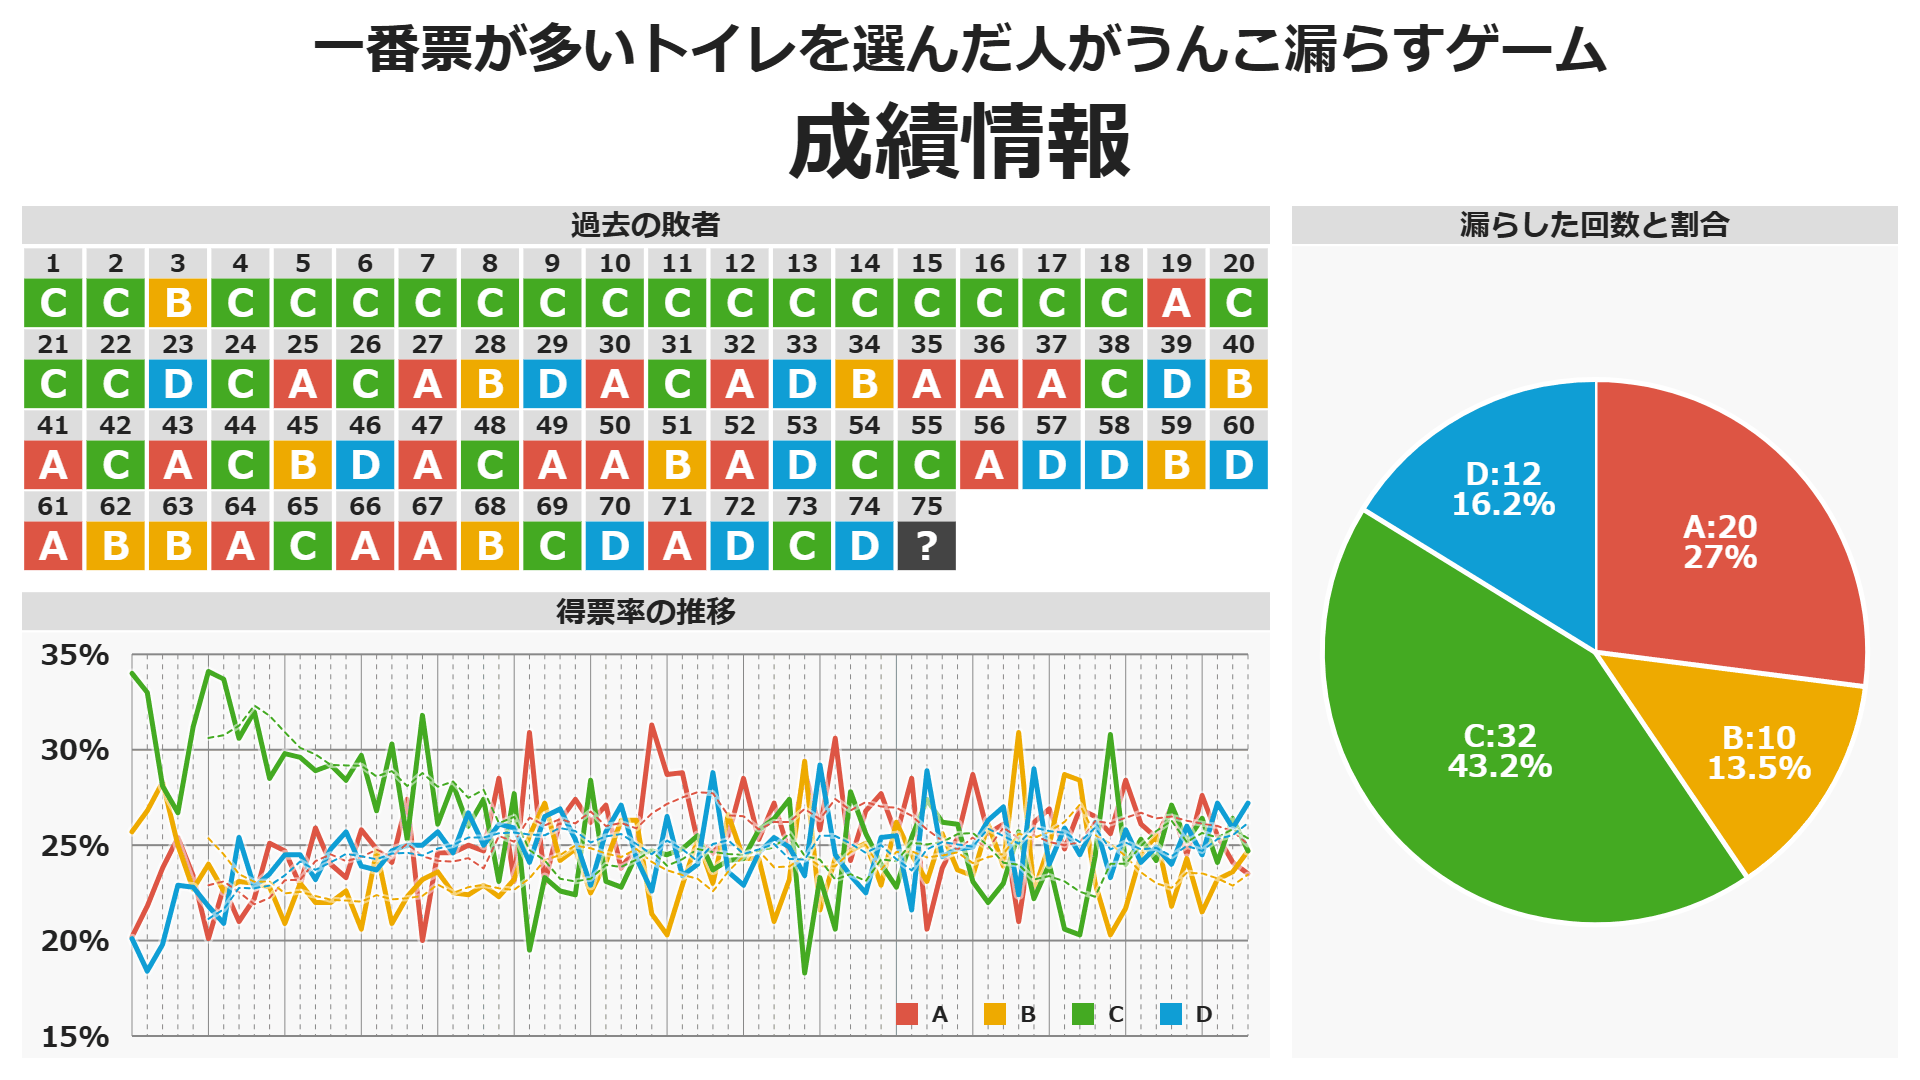
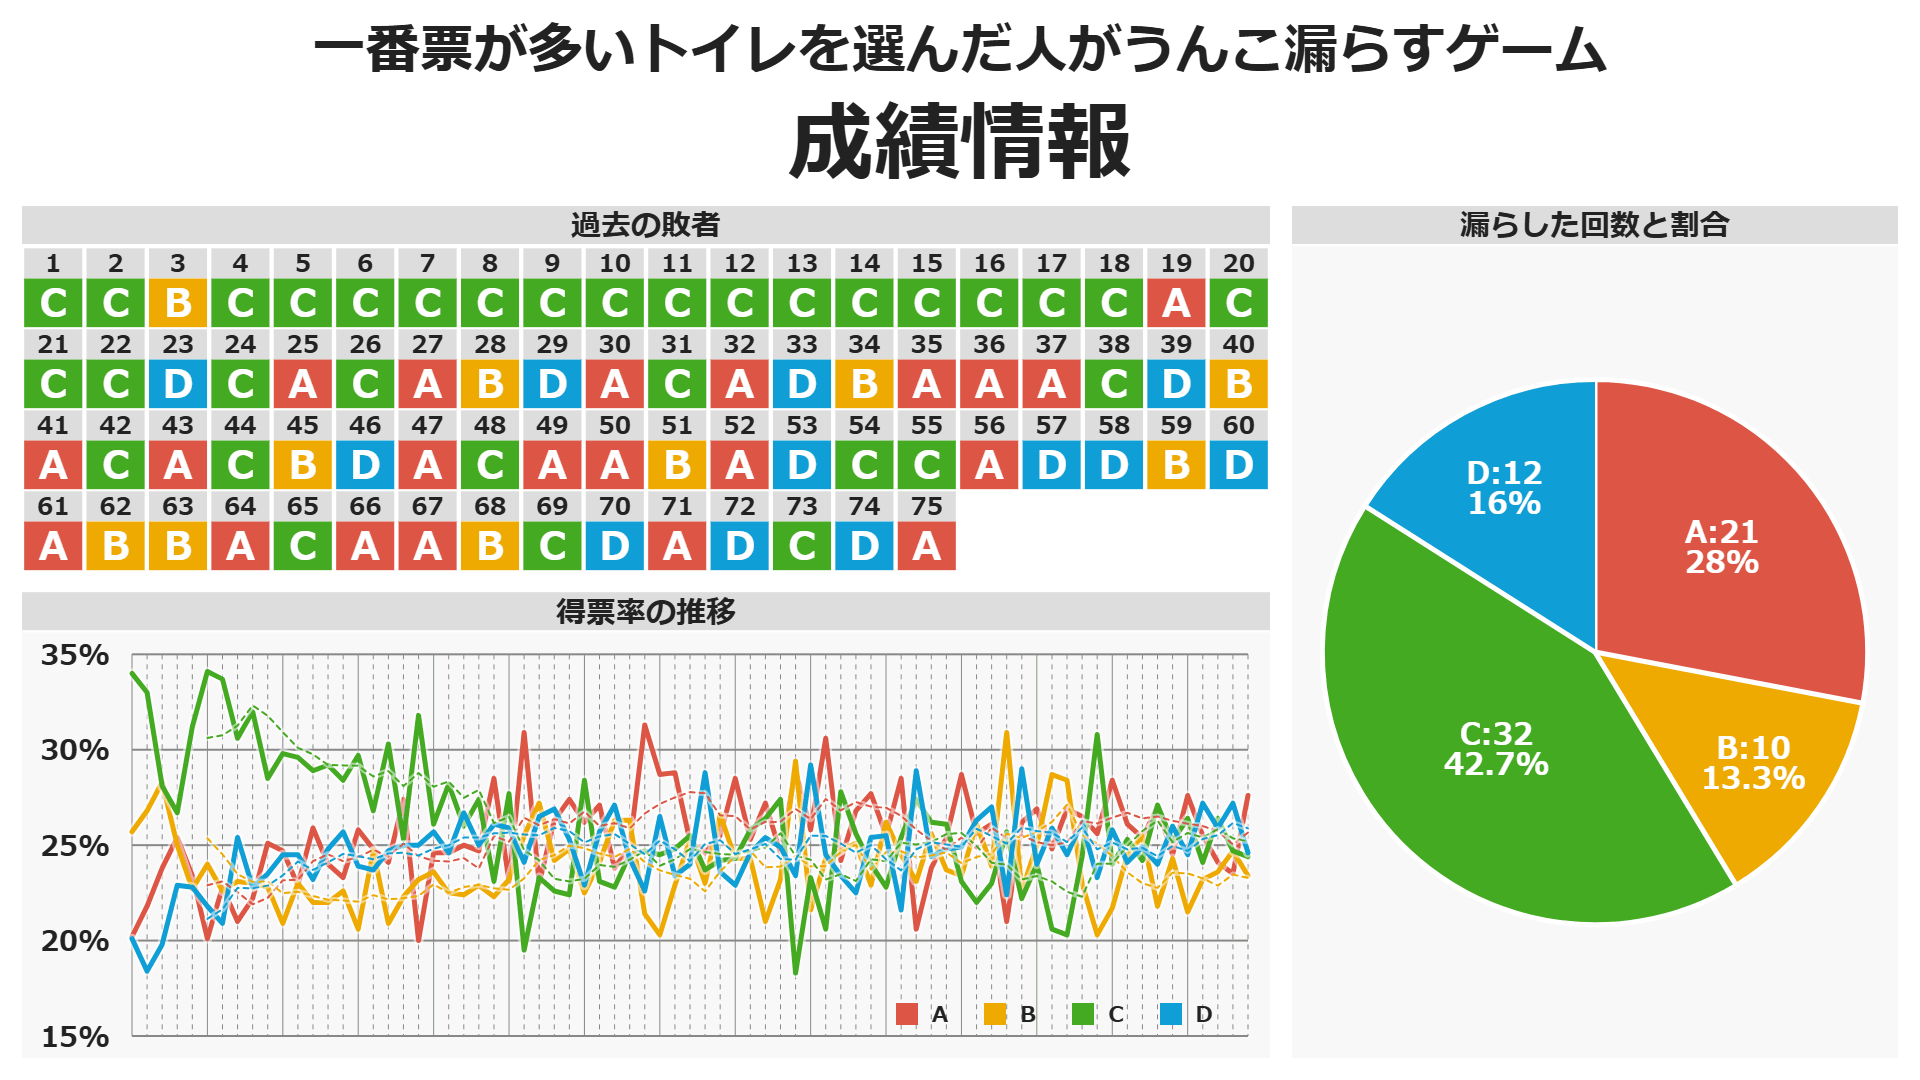
update

diff --git a/docs/index.html b/docs/index.html
@@ -12,7 +12,7 @@
     <meta property="og:url" content="https://shapoco.github.io/toilet-game/" />
     <meta property="og:title" content="4択トイレゲーム" />
     <meta property="og:description" content="一番票が多いトイレを選んだ人がうんこ漏らすゲーム" />
-    <meta property="og:image" content="https://shapoco.github.io/toilet-game/cover.png?20250426105400" />
+    <meta property="og:image" content="https://shapoco.github.io/toilet-game/cover.png?20250427213100" />
     
     <link rel="icon" href="https://shapoco.github.io/favicon192.png" sizes="192x192">
     <link rel="apple-touch-icon" href="https://shapoco.github.io/apple-touch-icon180.png" sizes="180x180">
@@ -36,8 +36,8 @@
     <style>
     </style>
     
-    <link rel="stylesheet" href="./style.css?20250426105400">
-    <script src="./toilet_game.js?20250426105400"></script>
+    <link rel="stylesheet" href="./style.css?20250427213100">
+    <script src="./toilet_game.js?20250427213100"></script>
 
     <title>4択トイレゲーム</title>
   </head>

diff --git a/docs/work.html b/docs/work.html
@@ -12,7 +12,7 @@
     <meta property="og:url" content="https://shapoco.github.io/toilet-game/" />
     <meta property="og:title" content="4択トイレゲーム" />
     <meta property="og:description" content="一番票が多いトイレを選んだ人がうんこ漏らすゲーム" />
-    <meta property="og:image" content="https://shapoco.github.io/toilet-game/cover.png?20250426105400" />
+    <meta property="og:image" content="https://shapoco.github.io/toilet-game/cover.png?20250427213100" />
     
     <link rel="icon" href="https://shapoco.github.io/favicon192.png" sizes="192x192">
     <link rel="apple-touch-icon" href="https://shapoco.github.io/apple-touch-icon180.png" sizes="180x180">
@@ -33,8 +33,8 @@
       }
     </script>
 
-    <link rel="stylesheet" href="./style.css?20250426105400">
-    <script src="./toilet_game.js?20250426105400"></script>
+    <link rel="stylesheet" href="./style.css?20250427213100">
+    <script src="./toilet_game.js?20250427213100"></script>
 
     <title>4択トイレゲーム</title>
   </head>

diff --git a/docs/toilet_game.js b/docs/toilet_game.js
@@ -76,6 +76,6 @@ const DB = [
   { date: '2025-04-05', total: 585, percent: [25.5, 23.2, 24.1, 27.2], url: 'https://x.com/shapoco/status/1908532802787958797' },
   { date: '2025-04-13', total: 598, percent: [24.1, 23.6, 26.4, 25.9], url: 'https://x.com/shapoco/status/1911189545175122295' },
   { date: '2025-04-19', total: 507, percent: [23.5, 24.7, 24.7, 27.2], url: 'https://x.com/shapoco/status/1913457009711874328' },
-  { date: '2025-04-26', total: 0, percent: null, url: null },
+  { date: '2025-04-26', total: 427, percent: [27.6, 23.4, 24.4, 24.6], url: 'https://x.com/shapoco/status/1915950318497726670' },
   //{ date: '2025-xx-xx', total: 0, percent: null, url: null },
 ];
